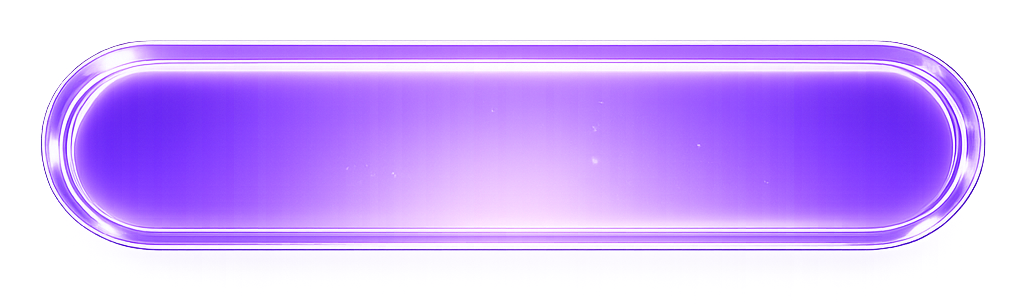
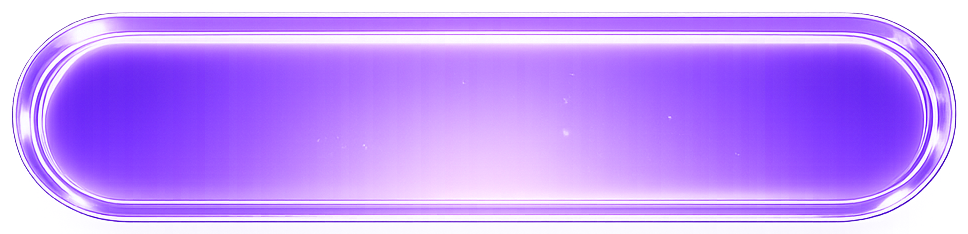
Fix welcome button proportions and match results to registration

diff --git a/src/app/results/[sessionId]/page.tsx b/src/app/results/[sessionId]/page.tsx
@@ -5,7 +5,7 @@ import { useParams } from "next/navigation";
 import { useEffect, useState } from "react";
 import { AppShell } from "@/components/AppShell";
 import { Button } from "@/components/Button";
-import { FestiveScreenDecor } from "@/components/FestiveScreenDecor";
+import { RegisterFestiveDecor } from "@/components/RegisterFestiveDecor";
 import {
   PerfectResultCard,
   ResultsFestiveBackground,
@@ -61,17 +61,14 @@ export default function ResultsPage() {
       background="none"
       gradient="festive"
       mainClassName="!p-0"
+      overlay={<RegisterFestiveDecor />}
     >
-      <FestiveScreenDecor />
       <div className="register-page-screen page-enter">
-        <div className="register-card-form quiz-card mx-auto">
-          <h1 className="mb-1 text-2xl font-black text-brand-dark sm:text-3xl">
-            Ваш результат
+        <div className="register-card-form quiz-card mx-auto text-center">
+          <h1 className="mb-2 text-2xl font-bold text-brand-accent md:text-3xl">
+            Ваш результат {result.score}/{result.totalQuestions}
           </h1>
-          <p className="mb-6 text-sm font-medium text-[#3F2183] md:text-base">
-            {result.score}/{result.totalQuestions} · нужно 10 из 10
-          </p>
-          <p className="mb-6 text-sm leading-relaxed text-brand-dark/60 md:text-[0.9375rem] lg:mb-8">
+          <p className="mb-6 text-sm leading-relaxed text-brand-dark/70 md:mx-auto md:max-w-md md:text-base">
             Вы знаете о компании «ГЕРОФАРМ» многое, но не всё. Чтобы получить
             приз, нужно ответить{" "}
             <strong className="text-brand-dark">
@@ -80,27 +77,35 @@ export default function ResultsPage() {
             .
           </p>
 
-          <div className="rounded-xl bg-brand-light p-4 md:p-5">
-            <p className="text-sm leading-relaxed text-brand-dark/80 md:text-[0.9375rem]">
+          <div
+            className="mb-6 rounded-xl p-4 text-left md:p-5"
+            style={{ background: "#F5F0FE" }}
+          >
+            <p className="text-sm leading-relaxed text-brand-dark/80 md:text-base">
               Если сразу не получилось — у вас есть возможность пройти викторину
               ещё раз. Удачи!
             </p>
           </div>
 
-          <div className="quiz-intro-start-btn mt-6 sm:mt-8">
+          <div className="quiz-intro-start-btn mb-3">
             <Link href="/start" className="block w-full">
               <Button fullWidth className="quiz-png-register-btn">
-                Пройти ещё раз
+                Пройти викторину повторно
               </Button>
             </Link>
           </div>
 
-          <Link
-            href="/"
-            className="mt-3 block text-center text-sm font-semibold text-[#3F2183] hover:underline md:text-[0.9375rem]"
-          >
-            На главную
-          </Link>
+          <div className="quiz-intro-start-btn">
+            <Link href="/" className="block w-full">
+              <Button
+                fullWidth
+                variant="outline"
+                className="!border-[#3F2183] !text-[#3F2183] hover:!bg-[#3F2183]/5"
+              >
+                На главную
+              </Button>
+            </Link>
+          </div>
         </div>
       </div>
     </AppShell>

diff --git a/src/app/globals.css b/src/app/globals.css
@@ -2334,6 +2334,7 @@ select {
     height: auto;
     max-width: 240px;
     aspect-ratio: 1025 / 304;
+    background-size: contain;
     font-size: 14px;
     letter-spacing: 0.02em;
   }
@@ -2381,6 +2382,10 @@ select {
 
   .welcome-btn {
     width: min(200px, 68vw);
+    max-width: 200px;
+    height: auto;
+    aspect-ratio: 1025 / 304;
+    background-size: contain;
     font-size: 13px;
   }
 }
@@ -2456,6 +2461,7 @@ select {
     height: auto;
     max-width: 220px;
     aspect-ratio: 1025 / 304;
+    background-size: contain;
     font-size: 13px;
     letter-spacing: 0.02em;
   }
